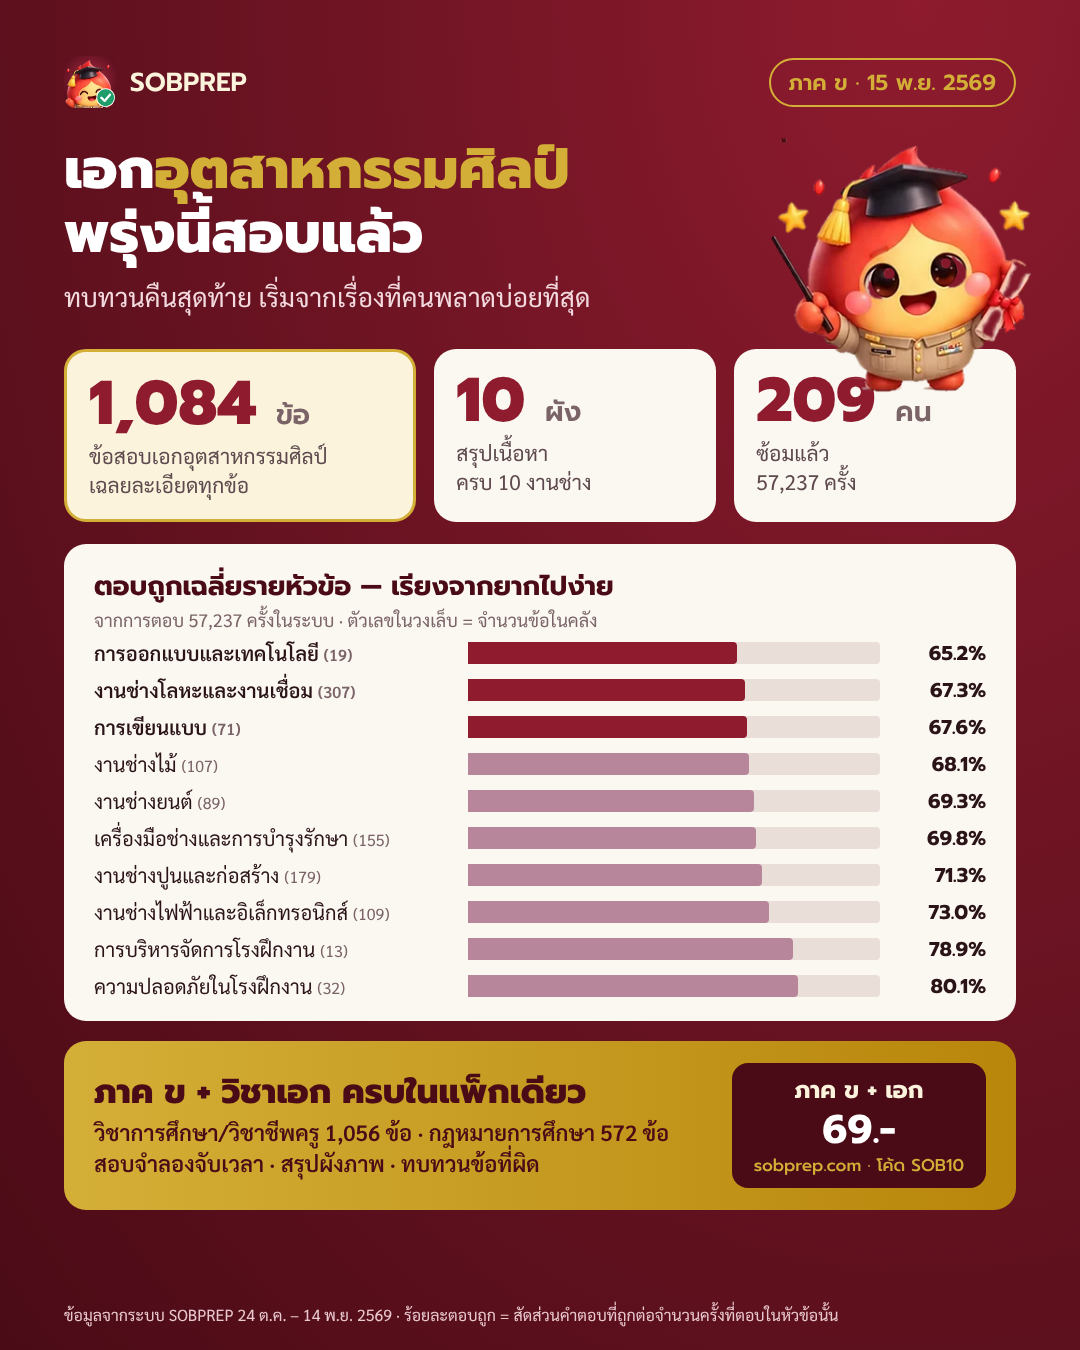
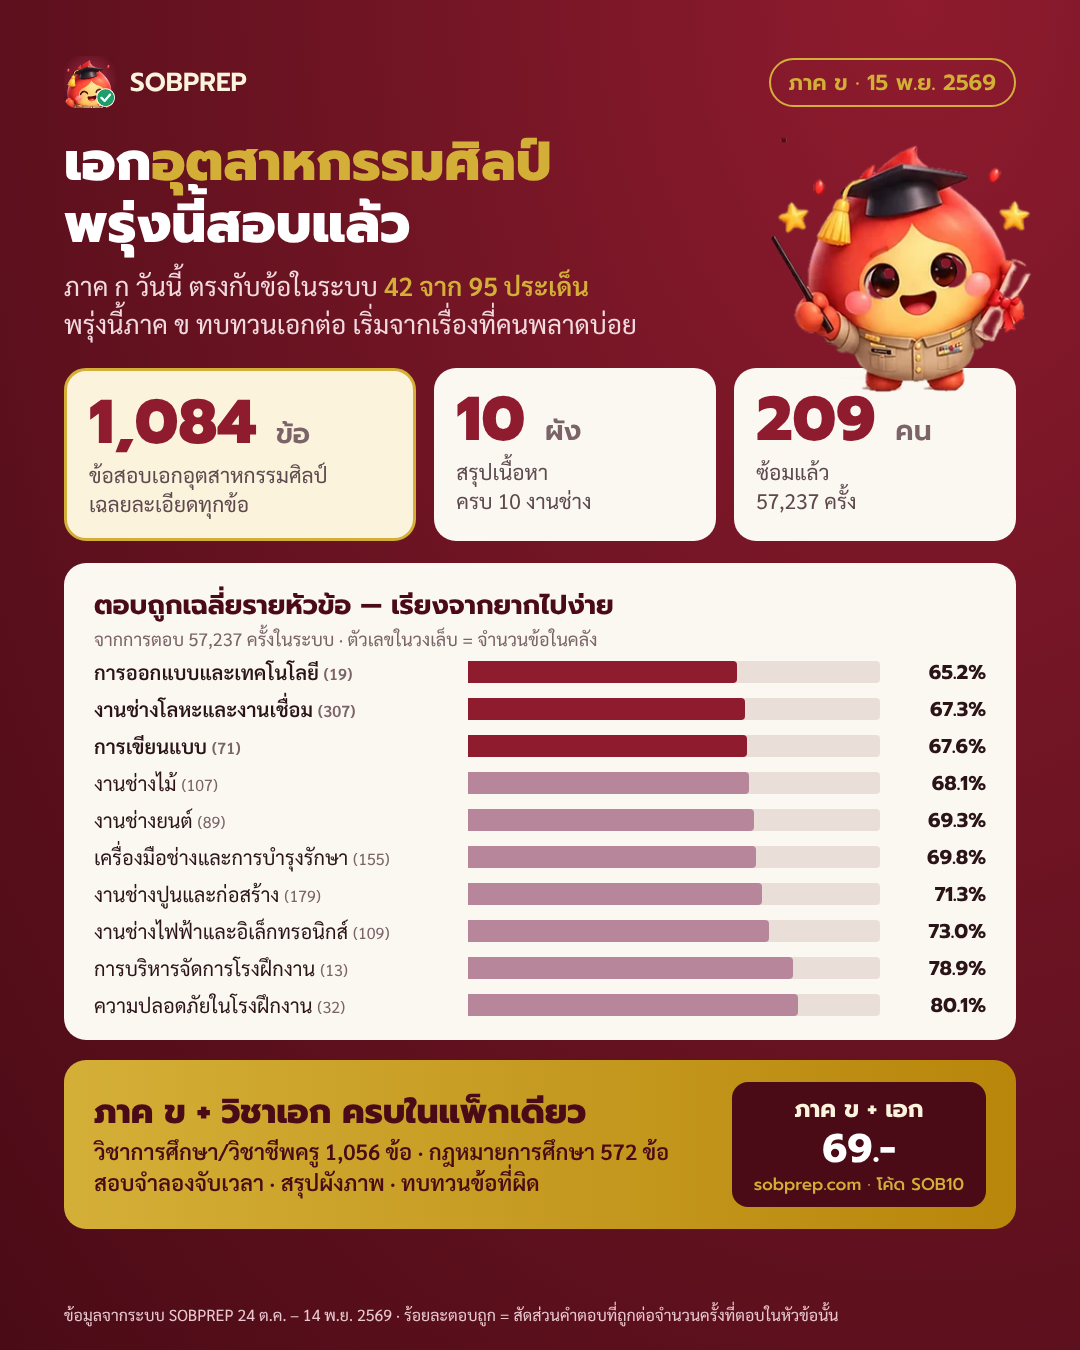
prep: industrial-arts infographic links today's ภาค ก match (42 of 95)
Claude-Session: https://claude.ai/code/session_018dKBF3yx6GC4DbqkRgewhg

Changed region(s): [[0.0611, 0.0933, 0.9472, 0.9333], [0.8861, 0.2489, 0.9472, 0.28]]

diff --git a/scripts/prep/promo/sobprep-indart.html b/scripts/prep/promo/sobprep-indart.html
@@ -7,11 +7,11 @@ body{width:1080px;height:1350px;font-family:Prompt,sans-serif;color:#2A1418}
 .top{display:flex;align-items:center;gap:14px;color:#FBF3DC;font-weight:600;font-size:26px}
 .top img{width:52px;height:52px;border-radius:12px;background:#fff}
 .tag{margin-left:auto;border:2px solid #D4AF37;color:#D4AF37;border-radius:999px;padding:6px 18px;font-size:22px}
-h1{margin-top:30px;color:#fff;font-size:56px;line-height:1.14;font-weight:800;width:680px}
+h1{margin-top:24px;color:#fff;font-size:54px;line-height:1.14;font-weight:800;width:680px}
 h1 em{font-style:normal;color:#D4AF37}
 .sub{margin-top:12px;color:#F3DADF;font-size:26px;width:640px;line-height:1.45;font-family:Sarabun,sans-serif}
 .mascot{position:absolute;right:40px;top:118px;width:280px}
-.stats{margin-top:34px;display:grid;grid-template-columns:1.25fr 1fr 1fr;gap:18px}
+.stats{margin-top:26px;display:grid;grid-template-columns:1.25fr 1fr 1fr;gap:18px}
 .st{background:#FBF7F1;border-radius:22px;padding:20px 22px}
 .st b{display:block;font-size:62px;font-weight:800;color:#8E1B2E;line-height:1}
 .st b small{font-size:28px;color:#7A6468;font-weight:600}
@@ -43,7 +43,7 @@ h1 em{font-style:normal;color:#D4AF37}
 <div class="top"><img src="../../../public/prep/welcome/img/logo.png">SOBPREP<div class="tag">ภาค ข · 15 พ.ย. 2569</div></div>
 <img class="mascot" src="../../../public/prep/welcome/img/mascot-teacher-cheer.webp">
 <h1>เอก<em>อุตสาหกรรมศิลป์</em><br>พรุ่งนี้สอบแล้ว</h1>
-<p class="sub">ทบทวนคืนสุดท้าย เริ่มจากเรื่องที่คนพลาดบ่อยที่สุด</p>
+<p class="sub">ภาค ก วันนี้ ตรงกับข้อในระบบ <b style="color:#D4AF37">42 จาก 95 ประเด็น</b><br>พรุ่งนี้ภาค ข ทบทวนเอกต่อ เริ่มจากเรื่องที่คนพลาดบ่อย</p>
 <div class="stats">
  <div class="st main"><b>1,084 <small>ข้อ</small></b><span>ข้อสอบเอกอุตสาหกรรมศิลป์<br>เฉลยละเอียดทุกข้อ</span></div>
  <div class="st"><b>10 <small>ผัง</small></b><span>สรุปเนื้อหา<br>ครบ 10 งานช่าง</span></div>
